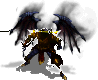
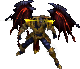
天堂網頁版：屠龍者(翅膀)變身卡頭像重畫（拿掉白霧）

diff --git a/天堂網頁版/index.html b/天堂網頁版/index.html
@@ -70,5 +70,5 @@
 <script defer src="data/item-use-data.js?v=20261105-clean17"></script>
 <script defer src="data/db-native-catalog.js?v=1"></script><script defer src="data/item-icon-overrides.js?v=item-detail-picture1"></script><script defer src="data/book-icons.js?v=1"></script><script defer src="data/db-active-settings.js?v=1"></script><script defer src="data/owned-inventory.js?v=classes7"></script>
 <script defer src="data/inventory-tools.js?v=auto-sell1"></script><script defer src="data/classic-panels.js?v=qy2"></script>
-<script defer src="data/reference-hud.js?v=teleporter-map4-1"></script><script defer src="data/reference-menu.js?v=qy-hud1"></script><script defer src="data/reference-skin.js?v=1"></script><script defer src="data/game-catalog-data.js?v=sys1"></script><script defer src="data/doll-dedup.js?v=1"></script><script defer src="data/transform-cards-data.js?v=original-polys1"></script><script defer src="data/monster-action-index.js?v=1"></script><script defer src="data/morph-weapon-data.js?v=1"></script><script defer src="data/death-knight-layer-data.js?v=1"></script><script defer src="data/death-knight-original-data.js?v=1"></script><script defer src="data/original-polymorph-extra-data.js?v=3"></script><script defer src="data/bow-attack-data.js?v=1"></script><script defer src="data/monster-actions.js?v=bow-animation1"></script><script defer src="data/island-monster-data.js?v=native-source1"></script><script defer src="data/dungeon-monster-data.js?v=5"></script><script defer src="data/island-npc-ai.js?v=summons2"></script><script defer src="data/teleporter-data.js?v=1"></script><script defer src="data/island-monsters.js?v=summons1"></script><script defer src="data/island-combat.js?v=buffs1"></script><script defer src="data/transform-weapon-rules.js?v=bow-animation1"></script><script defer src="data/transform-cards.js?v=native-db1"></script><script defer src="data/equipment-collection.js?v=empty-card-collection1"></script><script defer src="data/game-catalog.js?v=walk-with-panels1"></script><script defer src="data/tdj-systems-data.js?v=sys1"></script><script defer src="data/wuhun-boss-loop-data.js?v=1"></script><script defer src="data/wuhun-boss-gesture-data.js?v=1"></script><script defer src="data/wuhun-auto-data.js?v=wuhun-body1"></script><script defer src="data/wuhun-more-effects.js?v=1"></script><script defer src="data/wuhun-auto-cast.js?v=long-pause1"></script><script defer src="data/tdj-systems.js?v=doll-dedup1"></script><script defer src="data/island-music.js?v=background-music1"></script><script defer src="data/combat-sound-data.js?v=1"></script><script defer src="data/combat-sound.js?v=1"></script><script defer src="data/island-npc-service-data.js?v=1"></script><script defer src="data/native-npc-dialog-data.js?v=1"></script><script defer src="data/native-npc-dialogs.js?v=1"></script><script defer src="data/island-npc-services.js?v=native-dialogs1"></script><script defer src="data/player-skill-data.js?v=1"></script><script defer src="data/extra-class-skills.js?v=1"></script><script defer src="data/player-skills.js?v=summons2"></script><script defer src="data/kill-reward-data.js?v=native-source1"></script><script defer src="data/player-progression.js?v=native-db1"></script><script defer src="data/player-growth-data.js?v=classes7"></script><script defer src="data/player-growth.js?v=combat-audit1"></script><script defer src="data/database/manifest.js?v=1"></script><script defer src="data/game-database.js?v=1"></script><script defer src="data/db-game-rules.js?v=buffs2"></script><script defer src="data/local-server-client.js?v=2"></script><script defer src="data/native-potions.js?v=quick-home1"></script><script defer src="data/quick-slots.js?v=quick-home1"></script><script defer src="data/quick-slot-settings.js?v=1"></script><script defer src="data/background-play.js?v=quick-home1"></script><script defer src="data/bag-details.js?v=multi-windows1"></script><script defer src="data/map-region-labels.js?v=1"></script><script defer src="data/map-overview.js?v=dungeon1"></script><script defer src="data/teleport-map-rules.js?v=quick-home1"></script><script defer src="data/teleport-scrolls.js?v=dungeon1"></script><script defer src="data/npc-effect-data.js?v=1"></script><script defer src="data/npc-effect-renderer.js?v=1"></script><script defer src="data/screen-settings.js?v=1"></script><script defer src="data/bookmarks.js?v=dungeon1"></script><script defer src="data/floating-windows.js?v=1"></script><script defer src="data/teleporter-services.js?v=1"></script><script defer src="data/auto-sell-data.js?v=1"></script><script defer src="data/auto-sell.js?v=1"></script><script defer src="data/auto-potion.js?v=quick-home1"></script><script defer src="data/native-combat-rules.js?v=buffs2"></script><script defer src="data/navigation-connectivity-data.js?v=native-source1"></script><script defer src="data/navigation-connectivity.js?v=dungeon1"></script><script defer src="data/native-collision-data.js?v=1"></script><script defer src="data/native-dungeon-maps.js?v=3"></script><script defer src="data/native-collision.js?v=dungeon1"></script><script defer src="data/native-world-worker.js?v=3"></script><script defer src="data/native-world.js?v=dungeon1"></script><script defer src="data/dungeon-portals.js?v=1"></script><script defer src="data/class-buffs.js?v=7"></script><script defer src="data/summons.js?v=8"></script><script defer src="data/native-player-panels.js?v=1"></script><script defer src="data/character-bag-panels.js?v=9"></script><script defer src="data/client-classic-hud.js?v=10"></script><script defer src="data/orb-hud.js?v=13"></script><script defer src="data/overhead-bars.js?v=2"></script><script defer src="data/settings-panel.js?v=2"></script></html>
+<script defer src="data/reference-hud.js?v=teleporter-map4-1"></script><script defer src="data/reference-menu.js?v=qy-hud1"></script><script defer src="data/reference-skin.js?v=1"></script><script defer src="data/game-catalog-data.js?v=sys1"></script><script defer src="data/doll-dedup.js?v=1"></script><script defer src="data/transform-cards-data.js?v=original-polys1"></script><script defer src="data/monster-action-index.js?v=1"></script><script defer src="data/morph-weapon-data.js?v=1"></script><script defer src="data/death-knight-layer-data.js?v=1"></script><script defer src="data/death-knight-original-data.js?v=1"></script><script defer src="data/original-polymorph-extra-data.js?v=3"></script><script defer src="data/bow-attack-data.js?v=1"></script><script defer src="data/monster-actions.js?v=bow-animation1"></script><script defer src="data/island-monster-data.js?v=native-source1"></script><script defer src="data/dungeon-monster-data.js?v=5"></script><script defer src="data/island-npc-ai.js?v=summons2"></script><script defer src="data/teleporter-data.js?v=1"></script><script defer src="data/island-monsters.js?v=summons1"></script><script defer src="data/island-combat.js?v=buffs1"></script><script defer src="data/transform-weapon-rules.js?v=bow-animation1"></script><script defer src="data/transform-cards.js?v=portrait14491"></script><script defer src="data/equipment-collection.js?v=empty-card-collection1"></script><script defer src="data/game-catalog.js?v=walk-with-panels1"></script><script defer src="data/tdj-systems-data.js?v=sys1"></script><script defer src="data/wuhun-boss-loop-data.js?v=1"></script><script defer src="data/wuhun-boss-gesture-data.js?v=1"></script><script defer src="data/wuhun-auto-data.js?v=wuhun-body1"></script><script defer src="data/wuhun-more-effects.js?v=1"></script><script defer src="data/wuhun-auto-cast.js?v=long-pause1"></script><script defer src="data/tdj-systems.js?v=doll-dedup1"></script><script defer src="data/island-music.js?v=background-music1"></script><script defer src="data/combat-sound-data.js?v=1"></script><script defer src="data/combat-sound.js?v=1"></script><script defer src="data/island-npc-service-data.js?v=1"></script><script defer src="data/native-npc-dialog-data.js?v=1"></script><script defer src="data/native-npc-dialogs.js?v=1"></script><script defer src="data/island-npc-services.js?v=native-dialogs1"></script><script defer src="data/player-skill-data.js?v=1"></script><script defer src="data/extra-class-skills.js?v=1"></script><script defer src="data/player-skills.js?v=summons2"></script><script defer src="data/kill-reward-data.js?v=native-source1"></script><script defer src="data/player-progression.js?v=native-db1"></script><script defer src="data/player-growth-data.js?v=classes7"></script><script defer src="data/player-growth.js?v=combat-audit1"></script><script defer src="data/database/manifest.js?v=1"></script><script defer src="data/game-database.js?v=1"></script><script defer src="data/db-game-rules.js?v=buffs2"></script><script defer src="data/local-server-client.js?v=2"></script><script defer src="data/native-potions.js?v=quick-home1"></script><script defer src="data/quick-slots.js?v=quick-home1"></script><script defer src="data/quick-slot-settings.js?v=1"></script><script defer src="data/background-play.js?v=quick-home1"></script><script defer src="data/bag-details.js?v=multi-windows1"></script><script defer src="data/map-region-labels.js?v=1"></script><script defer src="data/map-overview.js?v=dungeon1"></script><script defer src="data/teleport-map-rules.js?v=quick-home1"></script><script defer src="data/teleport-scrolls.js?v=dungeon1"></script><script defer src="data/npc-effect-data.js?v=1"></script><script defer src="data/npc-effect-renderer.js?v=1"></script><script defer src="data/screen-settings.js?v=1"></script><script defer src="data/bookmarks.js?v=dungeon1"></script><script defer src="data/floating-windows.js?v=1"></script><script defer src="data/teleporter-services.js?v=1"></script><script defer src="data/auto-sell-data.js?v=1"></script><script defer src="data/auto-sell.js?v=1"></script><script defer src="data/auto-potion.js?v=quick-home1"></script><script defer src="data/native-combat-rules.js?v=buffs2"></script><script defer src="data/navigation-connectivity-data.js?v=native-source1"></script><script defer src="data/navigation-connectivity.js?v=dungeon1"></script><script defer src="data/native-collision-data.js?v=1"></script><script defer src="data/native-dungeon-maps.js?v=3"></script><script defer src="data/native-collision.js?v=dungeon1"></script><script defer src="data/native-world-worker.js?v=3"></script><script defer src="data/native-world.js?v=dungeon1"></script><script defer src="data/dungeon-portals.js?v=1"></script><script defer src="data/class-buffs.js?v=7"></script><script defer src="data/summons.js?v=8"></script><script defer src="data/native-player-panels.js?v=1"></script><script defer src="data/character-bag-panels.js?v=9"></script><script defer src="data/client-classic-hud.js?v=10"></script><script defer src="data/orb-hud.js?v=13"></script><script defer src="data/overhead-bars.js?v=2"></script><script defer src="data/settings-panel.js?v=2"></script></html>
 

diff --git a/天堂網頁版/data/transform-cards.js b/天堂網頁版/data/transform-cards.js
@@ -264,6 +264,7 @@ window.TransformCards = (() => {
     owned: name => (ensure(), state.owned[name] || 0),
     get collected() { ensure(); return Object.keys(state.owned).length; },
     get active() { ensure(); return state.active; },
-    portrait: card => 'assets/transform-portraits/' + card.p.gfx + '.png'
+    // 重做過的頭像加版本號，避免瀏覽器用舊快取（14491 屠龍者(翅膀) 2026-11-13 拿掉白霧重畫）
+    portrait: card => 'assets/transform-portraits/' + card.p.gfx + '.png' + ({14491: '?v=2'}[card.p.gfx] || '')
   };
 })();
